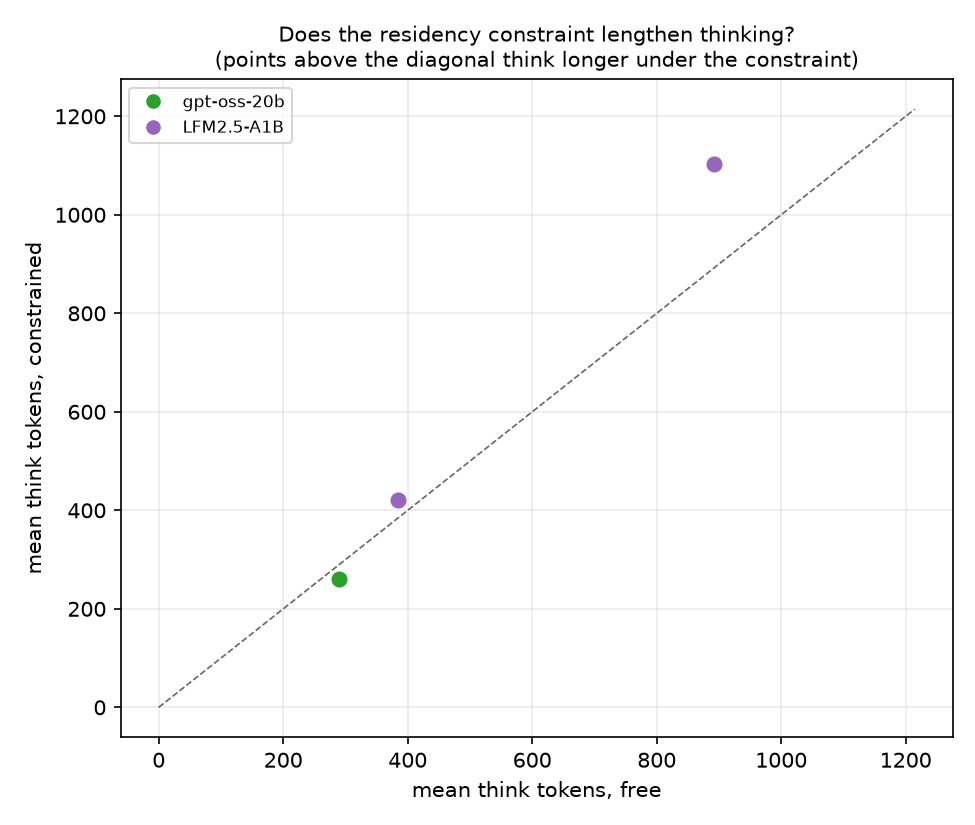
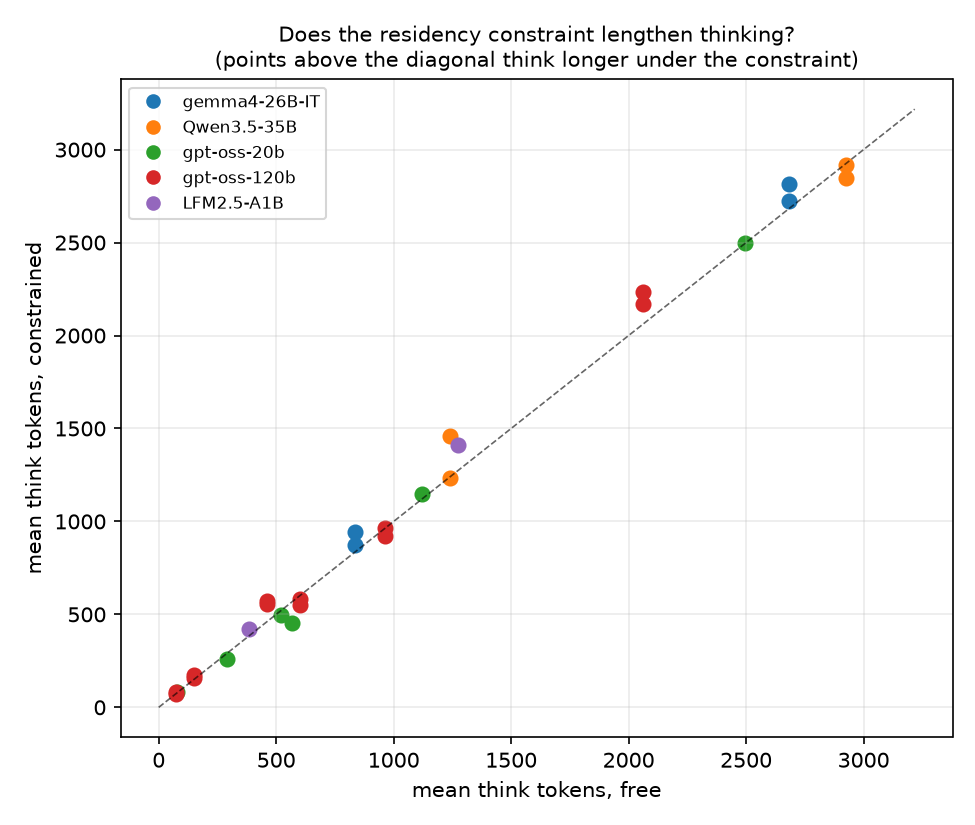
Thinking-ablation analysis on complete corrected data: damage x mode, think-length shift

diff --git a/analysis/residency/think_analysis.py b/analysis/residency/think_analysis.py
@@ -89,7 +89,7 @@ def load_lengths(record, arm, task):
     rows = [i for i in rows if "gen_toks" in i]  # pre-capture-era dumps lack lengths
     if not rows:
         return None
-    at = b.get("analysis_toks") or []
+    at = b.get("analysis_toks") or b.get("raw_think_toks") or []
     out = {"n": len(rows),
            "gen": np.mean([i["gen_toks"] for i in rows]),
            "think": np.mean(at) if at else np.mean([i.get("think_toks", 0)
